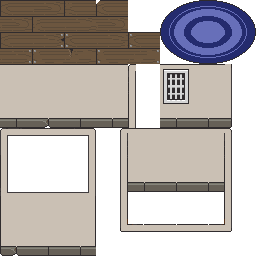
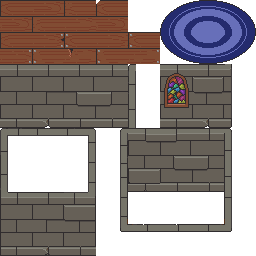
cria mapa da taverna

diff --git a/lib/maps/tavern/tavern.dart b/lib/maps/tavern/tavern.dart
@@ -13,10 +13,8 @@ import 'package:uuid/uuid.dart';
 
 class TavernMap extends StatefulWidget {
   final LocalGameController controller;
-  final Function exitFunction;
   const TavernMap(
       {super.key,
-      required this.exitFunction,
       required this.controller});
 
   @override
@@ -83,7 +81,7 @@ class _TavernMapState extends State<TavernMap> {
       ],
       map: WorldMapByTiled(
         WorldMapReader.fromAsset(
-            'map/house_interior/yellow_house/yellow_house_map.json'),
+            'map/house_interior/yellow_house/tavern_map.json'),
         forceTileSize: Vector2(tileSize, tileSize),
       ),
       lightingColorGame: Colors.orange[400]!.withAlpha(48),

diff --git a/lib/game.dart b/lib/game.dart
@@ -47,6 +47,7 @@ class _GameState extends State<Game> {
   Widget build(BuildContext context) {
     LocalGameController gameController = context.read<LocalGameController>();
 
-    return TownMap(controller: gameController);
+    // return TownMap(controller: gameController);
+    return TavernMap(controller: gameController);
   }
 }
